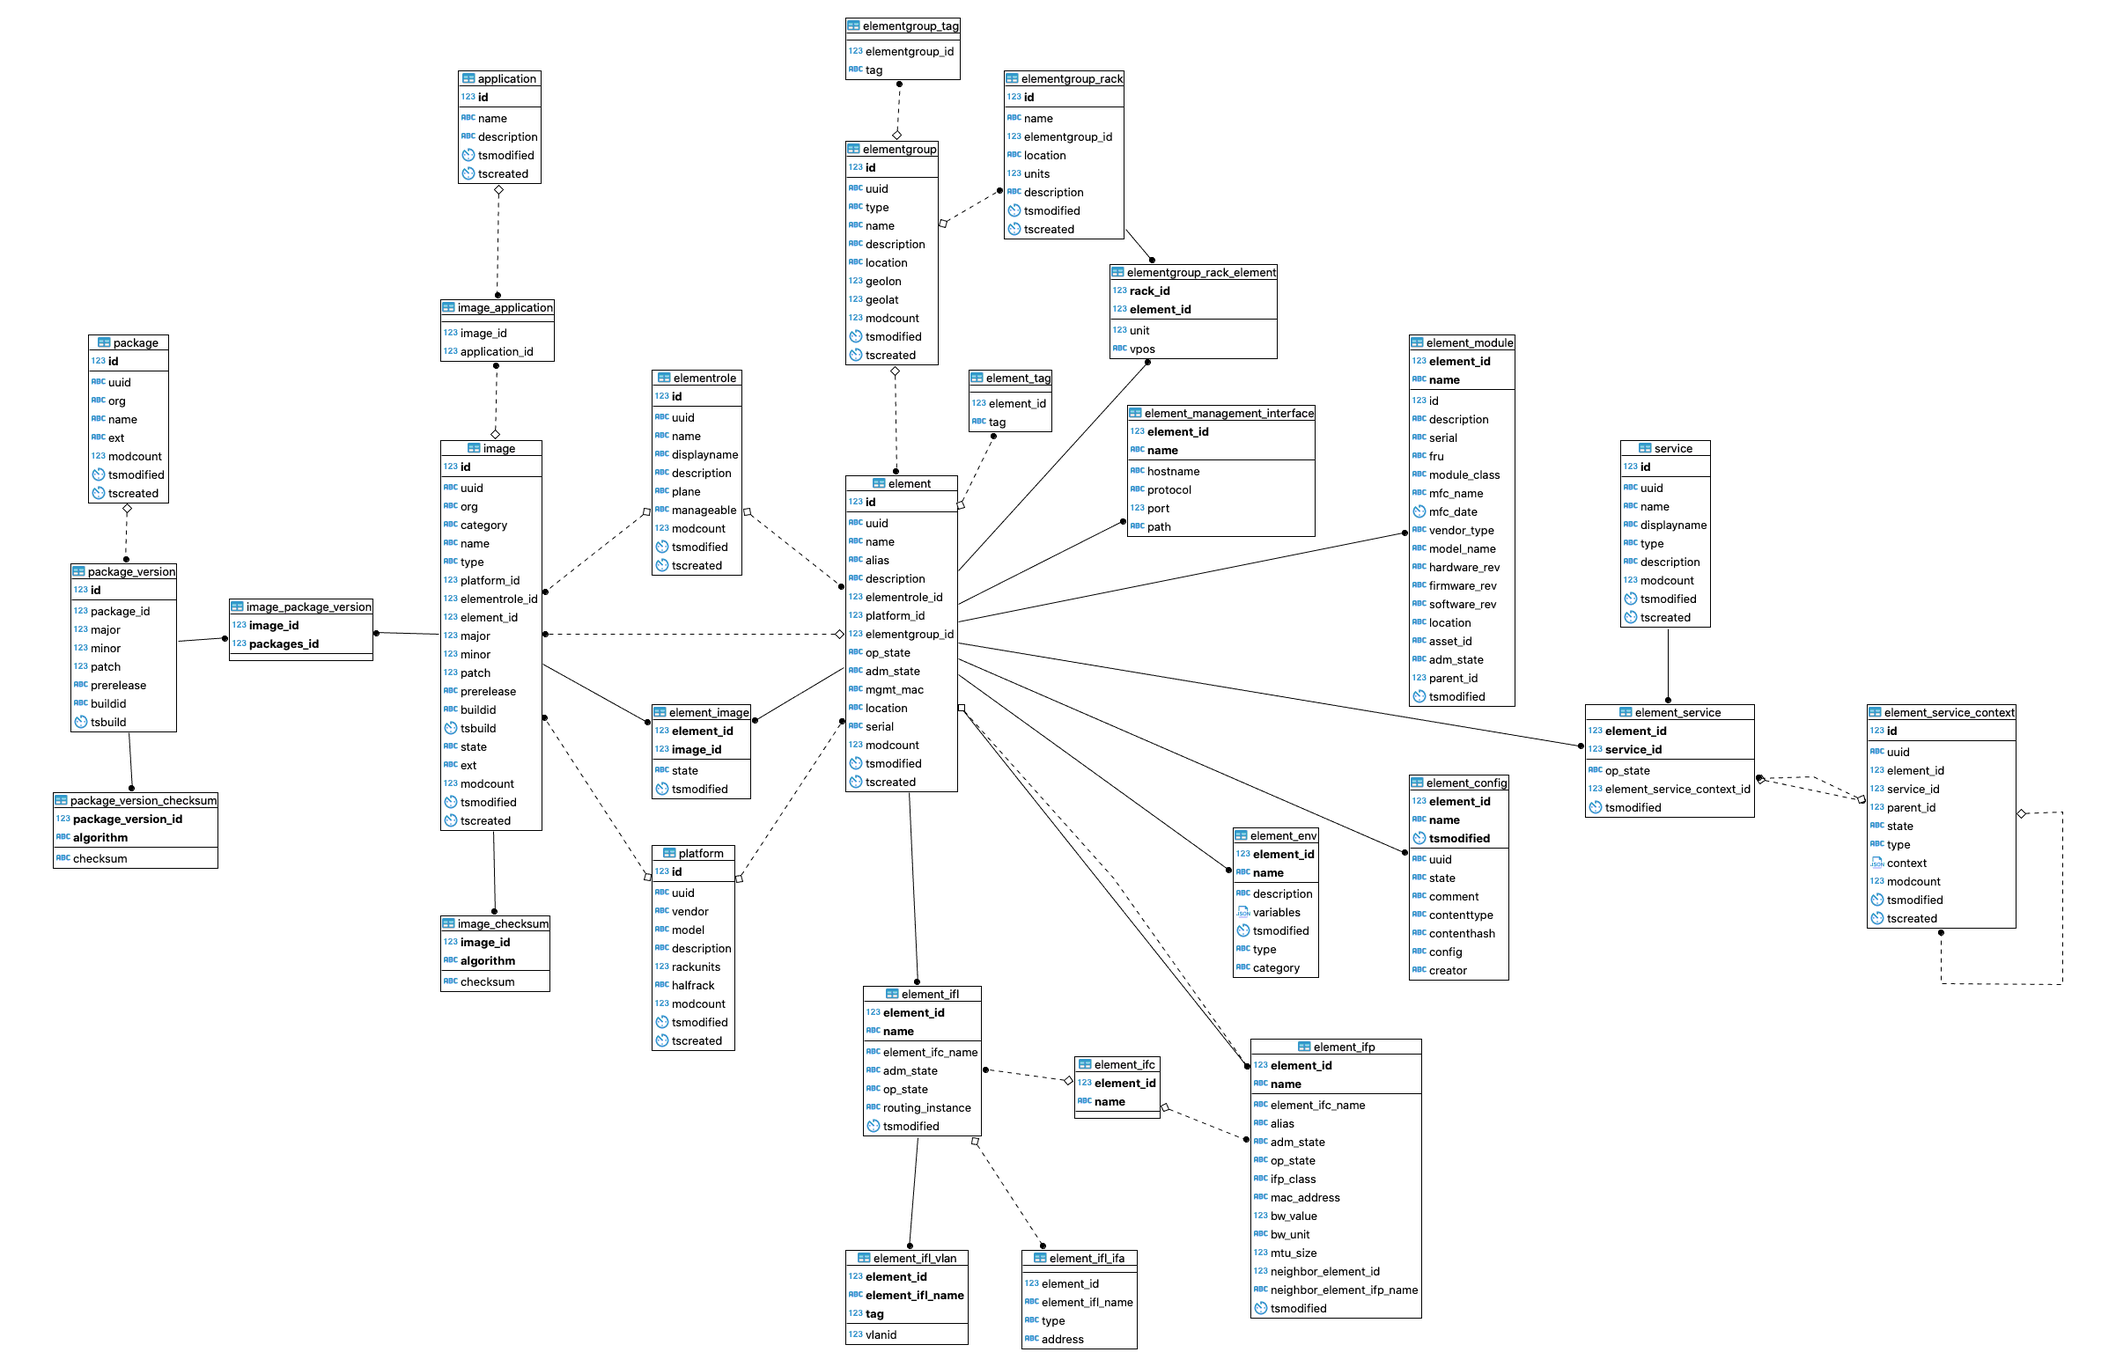
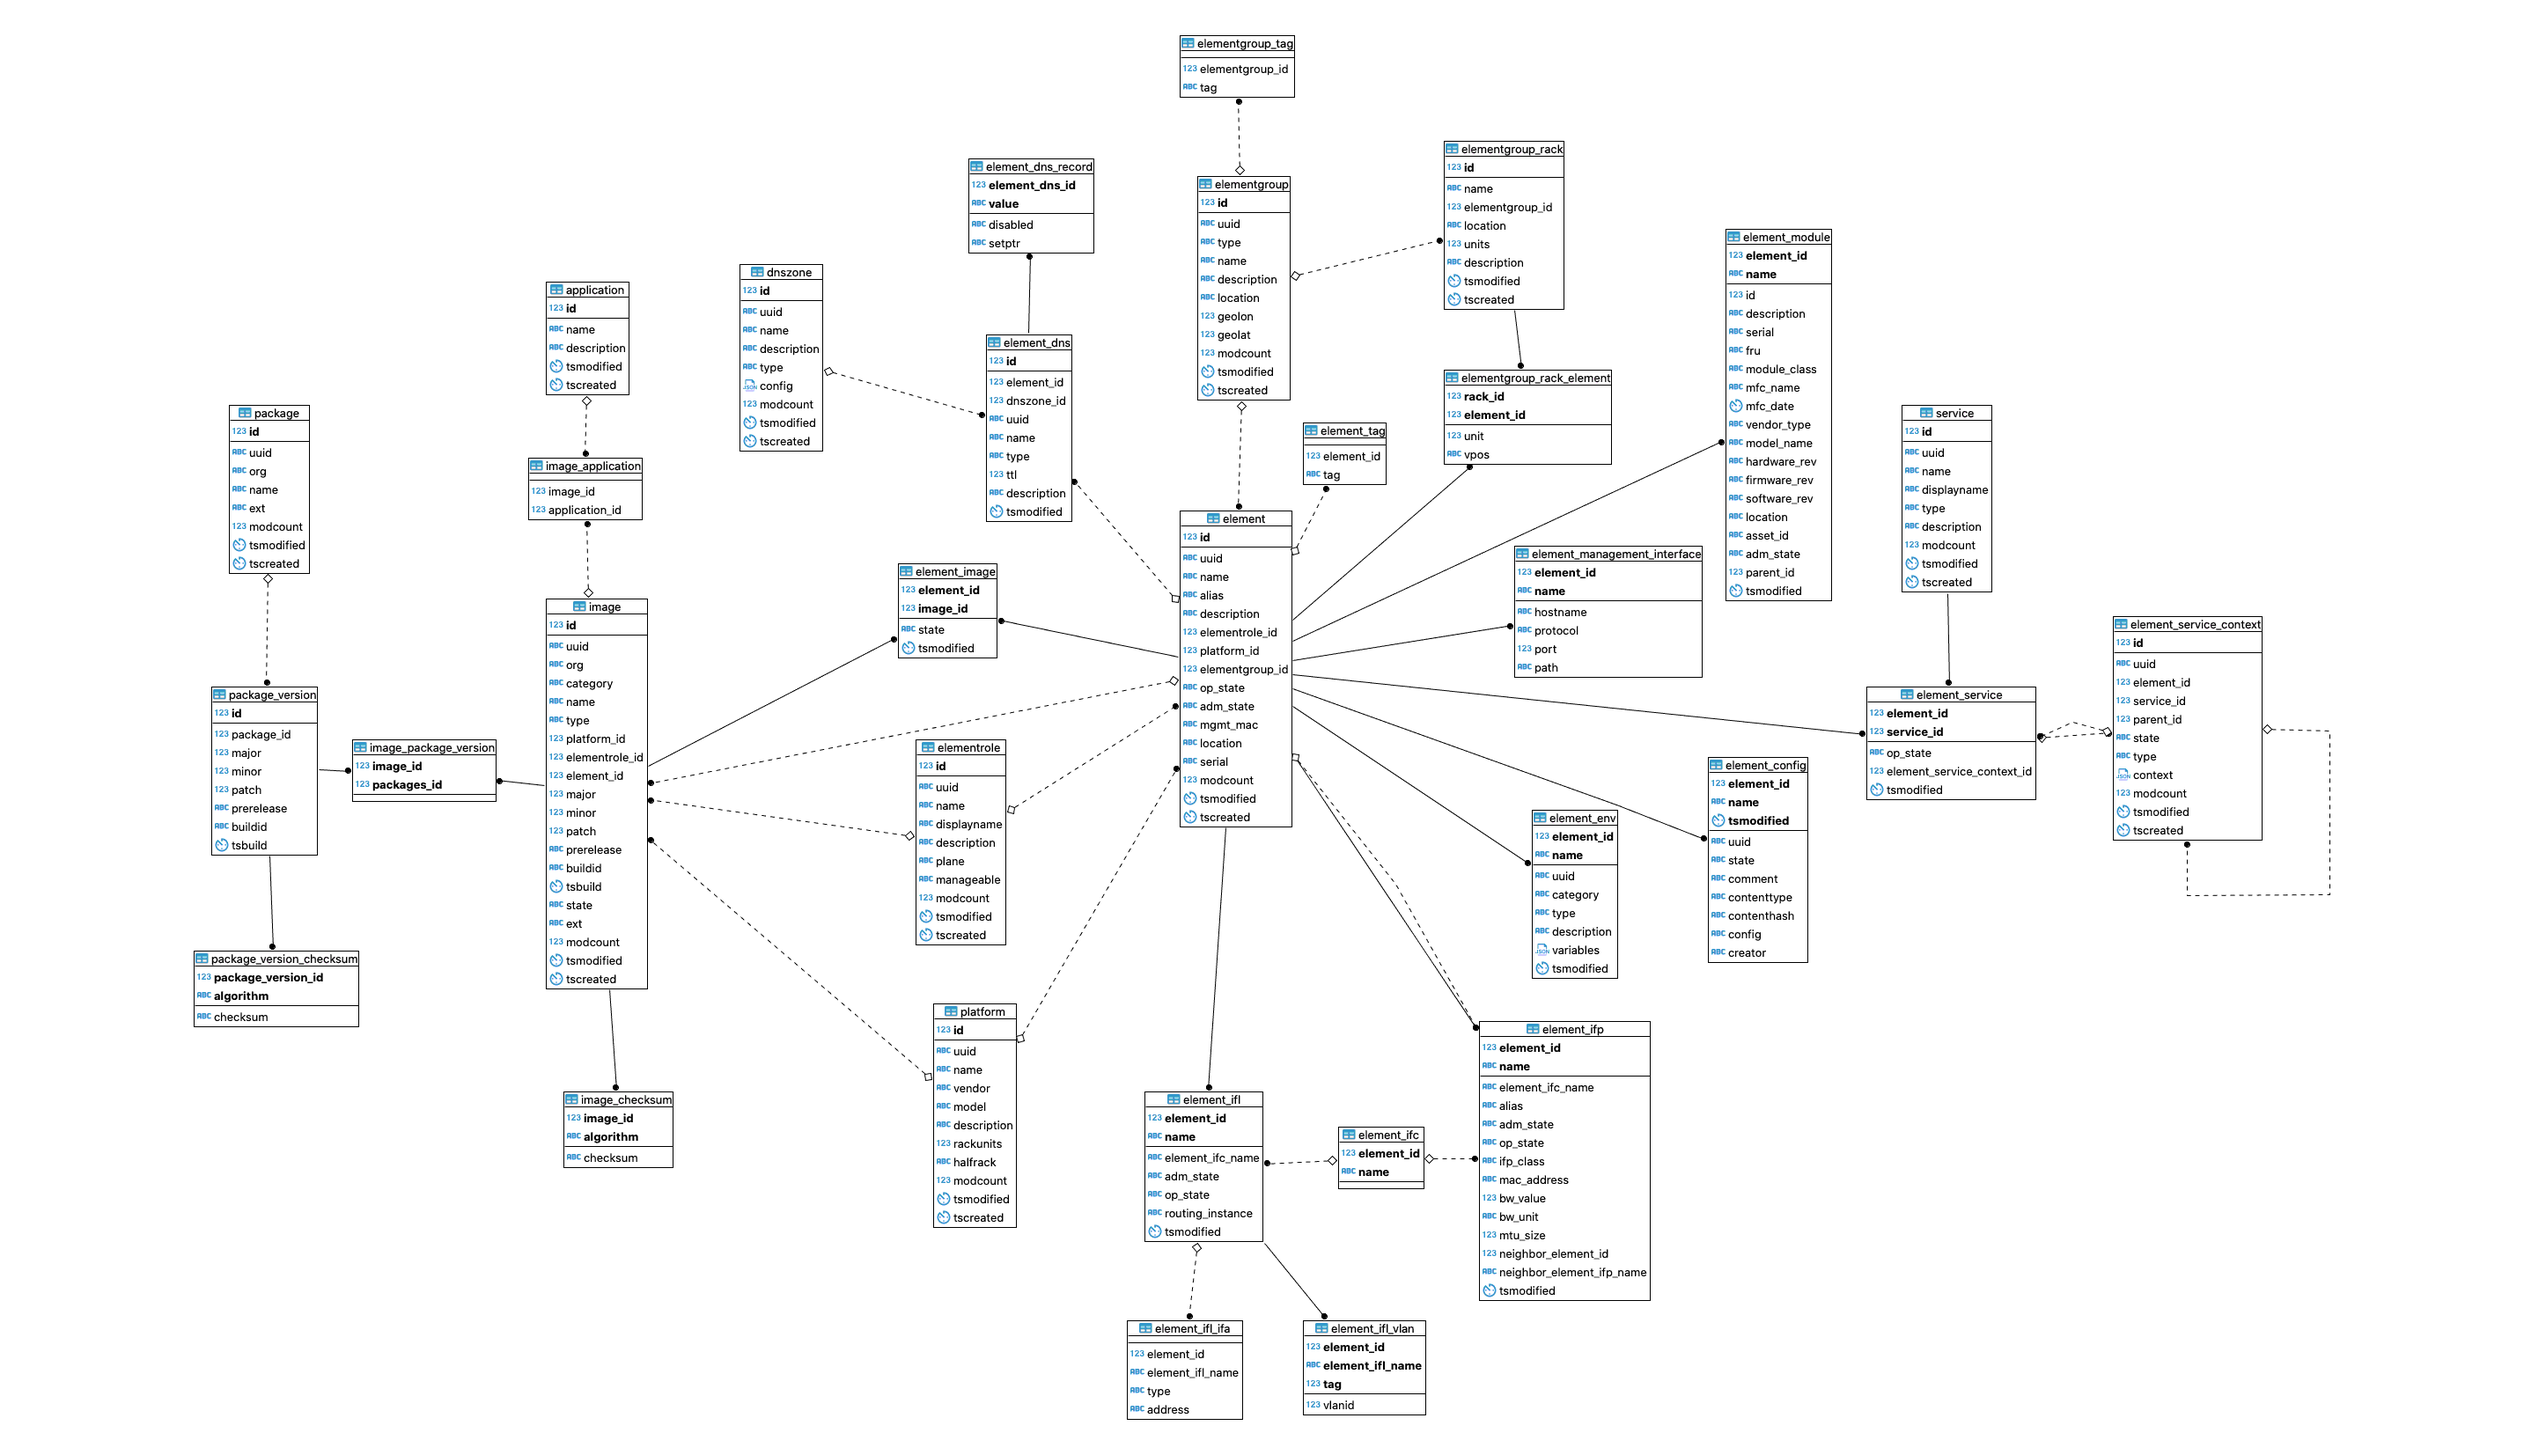
DNS cleanup (#10)
* Added bean validation
* Sorting DNS record lists by name
* DNS tables documented
* Fixed naming convention violations

diff --git a/leitstand-inventory-ui/src/main/resources/META-INF/resources/ui/modules/inventory/dns/controller.js b/leitstand-inventory-ui/src/main/resources/META-INF/resources/ui/modules/inventory/dns/controller.js
@@ -23,6 +23,33 @@ const DNS_TYPES = [{"label":"IPv4 address (A)","value":"A"},
 				   {"label":"IPv6 address (AAAA)","value":"AAAA"},
 				   {"label":"Alias (CNAME)","value":"CNAME"}];
 
+class DnsTypeSelector extends Select {
+	constructor(){
+		super();
+	}
+	
+	options(){
+		return Promise.resolve(DNS_TYPES);
+	}
+}
+customElements.define("dns-types",DnsTypeSelector);
+
+class DnsZoneSelector extends Select {
+	
+	constructor(){
+		super();
+	}
+	
+	options(){
+		const zones = new DnsZones();
+		return zones.load(this.location.params)
+			 		.then(zones => zones.map(zone => ({"label":zone.dns_zone_name,
+				 							   		   "value":zone.dns_zone_id})));
+	}
+	
+	
+}
+customElements.define("dns-zones",DnsZoneSelector);
 
 const zonesController = function(){
 	const zones = new DnsZones();
@@ -34,12 +61,15 @@ const zonesController = function(){
 						   buttons:{
 							   "add-zone":function(){
 								   zones.addZone(this.getViewModel("zone"));
+							   },
+							   "filter":function(){
+								   this.reload({"filter":this.getViewModel("filter")})
 							   }
 						   },
 						   onSuccess:function(){
 							   this.navigate("zones.html");
 						   }
-							});
+						});
 }
 
 const zoneSettingsController = function(){
@@ -74,17 +104,14 @@ const elementDnsRecordSetsController = function(){
 const addElementDnsRecordSetController = function(){
 	const element = new Element({"scope":"dns"});
 	return new Controller({resource:element,
-						   viewModel: async function(element){
-							   element.dns_types = DNS_TYPES;
-							   // Lookup all zones to prepare a select list.
-							   const zones = new DnsZones();
-							   element.zones = await zones.load(this.location.params);
-							   element.zones = element.zones.map(zone => ({"label":zone.dns_zone_name,"value":zone.dns_zone_name}));
-							   return element;
+						   viewModel: function(element){
+							   return {};
 						   },
 						   buttons:{
 							   "save-settings":function(){
 								   const dns = this.getViewModel("dns");
+								   const zoneName = this.input("dns-zones").unwrap().selected.label;
+								   dns.dns_zone_name = zoneName;
 								   dns.dns_records=[
 									   {"dns_value": dns.dns_value,
 									    "disabled":dns.disabled}
@@ -103,11 +130,6 @@ const elementDnsRecordSetController = function(){
 	const element = new Element({"scope":"dns/{{record}}"});
 	return new Controller({resource:element,
 						   viewModel: async function(element){
-							   element.dns_types = DNS_TYPES;
-							   // Lookup all zones to prepare a select list.
-							   const zones = new DnsZones();
-							   element.zones = await zones.load(this.location.params);
-							   element.zones = element.zones.map(zone => ({"label":zone.dns_zone_name,"value":zone.dns_zone_name}));
 							   const record = element.dns_recordset.dns_records[0];
 							   element.dns_recordset.dns_value = record.dns_value;
 							   element.dns_recordset.disabled = record.disabled;
@@ -117,6 +139,8 @@ const elementDnsRecordSetController = function(){
 						   buttons:{
 							   "save-settings":function(){
 								   const dns = this.getViewModel("dns_recordset");
+								   const zoneName = this.input("dns-zones").unwrap().selected.label;
+								   dns.dns_zone_name = zoneName;
 								   dns.dns_records=[
 									   {"dns_value": dns.dns_value,
 									    "disabled":dns.disabled}

diff --git a/leitstand-inventory-ui/src/main/resources/META-INF/resources/ui/modules/inventory/dns/element-dns-record.html b/leitstand-inventory-ui/src/main/resources/META-INF/resources/ui/modules/inventory/dns/element-dns-record.html
@@ -24,18 +24,18 @@
 <ui-form>
 	<ui-group>
 		<ui-label>DNS Record</ui-label>
-		<ui-select name="dns_zone_name" bind="dns_recordset.dns_zone_name" options="zones">
+		<dns-zones name="dns_zone_id" bind="dns_recordset.dns_zone_id">
 			<ui-label>DNS Zone</ui-label>
 			<ui-note>Select DNS zone.</ui-note>
-		</ui-select>
+		</dns-zones>
 		<ui-input name="dns_name" bind="dns_recordset.dns_name">
 			<ui-label>DNS Name</ui-label>
 			<ui-note>Set cannonical DNS name</ui-note>.		
 		</ui-input>
-		<ui-select name="dns_type" bind="dns_recordset.dns_type" options="dns_types">
+		<dns-types name="dns_type" bind="dns_recordset.dns_type">
 			<ui-label>DNS Record Type</ui-label>
 			<ui-note>Select record type</ui-note>.		
-		</ui-select>
+		</dns-types>
 		<ui-input name="dns_value" bind="dns_recordset.dns_value">
 			<ui-label>DNS Value</ui-label>
 			<ui-note>Set the DNS record value</ui-note>.		

diff --git a/leitstand-inventory-ui/src/main/resources/META-INF/resources/ui/modules/inventory/dns/add-element-dns-record.html b/leitstand-inventory-ui/src/main/resources/META-INF/resources/ui/modules/inventory/dns/add-element-dns-record.html
@@ -24,18 +24,18 @@
 <ui-form>
 	<ui-group>
 		<ui-label>DNS Record</ui-label>
-		<ui-select name="dns_zone_name" bind="dns.dns_zone_name" options="zones">
+		<dns-zones name="dns_zone_id" bind="dns.dns_zone_id">
 			<ui-label>DNS Zone</ui-label>
 			<ui-note>Select DNS zone.</ui-note>
-		</ui-select>
+		</dns-zones>
 		<ui-input name="dns_name" bind="dns.dns_name">
 			<ui-label>DNS Name</ui-label>
 			<ui-note>Set cannonical DNS name</ui-note>.		
 		</ui-input>
-		<ui-select name="dns_type" bind="dns.dns_type" options="dns_types">
+		<dns-types name="dns_type" bind="dns.dns_type">
 			<ui-label>DNS Record Type</ui-label>
 			<ui-note>Select record type</ui-note>.		
-		</ui-select>
+		</dns-types>
 		<ui-input name="dns_value" bind="dns.dns_value">
 			<ui-label>DNS Value</ui-label>
 			<ui-note>Set the DNS record value</ui-note>.		

diff --git a/leitstand-inventory-ui/src/main/resources/META-INF/resources/ui/modules/inventory/dns/zone-elements.html b/leitstand-inventory-ui/src/main/resources/META-INF/resources/ui/modules/inventory/dns/zone-elements.html
@@ -34,7 +34,7 @@
 			<th>Set-PTR</th>
 		</thead>
 		<tbody>
-		<!-- {{#dns_record_sets}}  -->
+		<!-- {{#dns_recordsets}}  -->
 		<!-- {{#dns_records}} -->
 		<tr>
 			<td class="text"><a href="element-dns-record.html?group={{group_id}}&element={{element_id}}&record={{dns_recordset_id}}">{{dns_name}}</a></td>
@@ -44,7 +44,7 @@
 			<td>{{dns_setptr}}</td>
 		</tr>
 		<!-- {{/dns_records}} -->
-		<!-- {{/dns_record_sets}} -->
+		<!-- {{/dns_recordsets}} -->
 		</tbody>		
 	</table>
 	</ui-group>

diff --git a/leitstand-inventory-model/src/main/java/io/leitstand/inventory/rs/ElementDnsRecordSetResource.java b/leitstand-inventory-model/src/main/java/io/leitstand/inventory/rs/ElementDnsRecordSetResource.java
@@ -103,7 +103,7 @@ public class ElementDnsRecordSetResource {
 	@Path("/{element:"+UUID_PATTERN+"}/dns/{dns_id:"+UUID_PATTERN+"}")
 	@Scopes({IVT_READ, IVT, IVT_ELEMENT,IVT_ELEMENT_DNS})
 	public ElementDnsRecordSet getElementDnsRecordSet(@Valid @PathParam("element") ElementId elementId,
-															  @Valid @PathParam("dns_id") DnsRecordSetId dnsId) {
+													  @Valid @PathParam("dns_id") DnsRecordSetId dnsId) {
 		ElementDnsRecordSet recordSet = service.getElementDnsRecordSet(dnsId);
 		if(isDifferent(elementId,recordSet.getElementId())) {
 			throw new ConflictException(IVT3003I_ELEMENT_DNS_RECORD_OWNED_BY_OTHER_ELEMENT, 
@@ -118,7 +118,7 @@ public class ElementDnsRecordSetResource {
 	@Path("/{element}/dns/{dns_id:"+UUID_PATTERN+"}")
 	@Scopes({IVT_READ, IVT, IVT_ELEMENT,IVT_ELEMENT_DNS})
 	public ElementDnsRecordSet getElementDnsRecordSet(@Valid @PathParam("element") ElementName elementName,
-															  @Valid @PathParam("dns_id") DnsRecordSetId dnsId) {
+													  @Valid @PathParam("dns_id") DnsRecordSetId dnsId) {
 		ElementDnsRecordSet recordSet = service.getElementDnsRecordSet(dnsId);
 		if(isDifferent(elementName,recordSet.getElementName())) {
 			throw new ConflictException(IVT3003I_ELEMENT_DNS_RECORD_OWNED_BY_OTHER_ELEMENT, 

diff --git a/leitstand-inventory-model/src/main/java/io/leitstand/inventory/model/Element_DnsRecordSet.java b/leitstand-inventory-model/src/main/java/io/leitstand/inventory/model/Element_DnsRecordSet.java
@@ -57,7 +57,7 @@ import io.leitstand.inventory.service.DnsZoneName;
 @NamedQuery(name="Element_DnsRecordSet.removeAll",
 			query="DELETE FROM Element_DnsRecordSet s WHERE s.element=:element")
 @NamedQuery(name="Element_DnsRecordSet.findDnsRecordSets",
-			query="SELECT s FROM Element_DnsRecordSet s WHERE s.element=:element")
+			query="SELECT s FROM Element_DnsRecordSet s WHERE s.element=:element ORDER BY s.type,s.name")
 @NamedQuery(name="Element_DnsRecordSet.findDnsRecordSetByName",
 			query="SELECT s FROM Element_DnsRecordSet s WHERE s.element=:element AND s.name=:name AND s.type=:type")
 @NamedQuery(name="Element_DnsRecordSet.findDnsRecordSetById",
@@ -127,6 +127,7 @@ public class Element_DnsRecordSet {
 	private List<DnsRecord> records;
 	
 	@Convert(converter=DnsNameConverter.class)
+	@Column(unique=true)
 	private DnsName name;
 
 	private String description;
@@ -155,6 +156,7 @@ public class Element_DnsRecordSet {
 		this.element = element;
 		this.uuid = id;
 		this.name = name;
+		this.tsModified = new Date();
 	}
 	
 	@PreUpdate

diff --git a/leitstand-inventory-api/src/main/java/io/leitstand/inventory/service/DnsRecordSet.java b/leitstand-inventory-api/src/main/java/io/leitstand/inventory/service/DnsRecordSet.java
@@ -25,6 +25,8 @@ import java.util.ArrayList;
 import java.util.List;
 
 import javax.json.bind.annotation.JsonbProperty;
+import javax.validation.Valid;
+import javax.validation.constraints.NotNull;
 
 import io.leitstand.commons.model.ValueObject;
 
@@ -113,13 +115,27 @@ public class DnsRecordSet extends ValueObject {
 		}
 	}
 	
+	@NotNull(message="{dns_zone_id.required}")
+	@Valid
 	private DnsZoneId dnsZoneId;
+	@NotNull(message="{dns_zone_name.required}")
+	@Valid
 	private DnsZoneName dnsZoneName;
+	
 	@JsonbProperty("dns_recordset_id")
+	@NotNull(message="{dns_recorset_id.required}")
+	@Valid
 	private DnsRecordSetId dnsRecordSetId = randomDnsRecordSetId();
+
+	@NotNull(message="{dns_type.required}")
+	@Valid
 	private DnsRecordType dnsType;
+	
+	@NotNull(message="{dns_name.required}")
+	@Valid
 	private DnsName dnsName;
 	private int dnsTtl = 3600;
+	@Valid
 	private List<DnsRecord> dnsRecords = emptyList();
 	private String description;
 	

diff --git a/leitstand-inventory-api/src/main/java/io/leitstand/inventory/service/DnsZoneId.java b/leitstand-inventory-api/src/main/java/io/leitstand/inventory/service/DnsZoneId.java
@@ -15,10 +15,15 @@
  */
 package io.leitstand.inventory.service;
 
+import static io.leitstand.commons.model.Patterns.UUID_PATTERN;
+
 import java.util.UUID;
 
 import javax.json.bind.annotation.JsonbTypeAdapter;
+import javax.validation.constraints.NotNull;
+import javax.validation.constraints.Pattern;
 
+import io.leitstand.commons.model.Patterns;
 import io.leitstand.commons.model.Scalar;
 import io.leitstand.inventory.jsonb.DnsZoneIdAdapter;
 
@@ -39,6 +44,8 @@ public class DnsZoneId extends Scalar<String> {
 		return Scalar.fromString(name, DnsZoneId::new);
 	}
 	
+	@NotNull(message="{dns_zone_id.required}")
+	@Pattern(regexp=UUID_PATTERN, message="{dns_zone_id.invalid}")
 	private String value;
 	
 	public DnsZoneId(String name) {

diff --git a/leitstand-inventory-api/src/main/java/io/leitstand/inventory/service/DnsZoneName.java b/leitstand-inventory-api/src/main/java/io/leitstand/inventory/service/DnsZoneName.java
@@ -15,7 +15,11 @@
  */
 package io.leitstand.inventory.service;
 
+import static io.leitstand.commons.model.Patterns.DNS_PATTERN;
+
 import javax.json.bind.annotation.JsonbTypeAdapter;
+import javax.validation.constraints.NotNull;
+import javax.validation.constraints.Pattern;
 
 import io.leitstand.commons.model.Scalar;
 import io.leitstand.inventory.jsonb.DnsZoneNameAdapter;
@@ -33,6 +37,8 @@ public class DnsZoneName extends Scalar<String>{
 		return Scalar.fromString(name, DnsZoneName::new);
 	}
 	
+	@NotNull(message="{dns_zone_name.required}")
+	@Pattern(regexp=DNS_PATTERN, message="{dns_zone_name.invalid}")
 	private String value;
 	
 	public DnsZoneName(String name) {

diff --git a/leitstand-inventory-api/src/main/java/io/leitstand/inventory/service/DnsZoneSettings.java b/leitstand-inventory-api/src/main/java/io/leitstand/inventory/service/DnsZoneSettings.java
@@ -19,6 +19,8 @@ import static io.leitstand.commons.model.BuilderUtil.assertNotInvalidated;
 import static io.leitstand.inventory.service.DnsZoneId.randomDnsZoneId;
 
 import javax.json.JsonObject;
+import javax.validation.Valid;
+import javax.validation.constraints.NotNull;
 
 import io.leitstand.commons.model.ValueObject;
 
@@ -82,8 +84,12 @@ public class DnsZoneSettings extends ValueObject {
 		}
 	}
 	
+	@Valid
+	@NotNull(message="{dns_zone_id.required}")
 	private DnsZoneId dnsZoneId = randomDnsZoneId();
 	
+	@Valid
+	@NotNull(message="{dns_zone_name.required}")
 	private DnsZoneName dnsZoneName;
 	
 	private String dnsZoneConfigType;

diff --git a/leitstand-inventory-api/src/main/java/io/leitstand/inventory/service/DnsRecordType.java b/leitstand-inventory-api/src/main/java/io/leitstand/inventory/service/DnsRecordType.java
@@ -16,6 +16,8 @@
 package io.leitstand.inventory.service;
 
 import javax.json.bind.annotation.JsonbTypeAdapter;
+import javax.validation.constraints.NotNull;
+import javax.validation.constraints.Pattern;
 
 import io.leitstand.commons.model.Scalar;
 import io.leitstand.inventory.jsonb.DnsRecordTypeAdapter;
@@ -33,6 +35,8 @@ public class DnsRecordType extends Scalar<String>{
 		return fromString(type, DnsRecordType::new);
 	}
 	
+	@NotNull(message="{dns_type.required}")
+	@Pattern(regexp="[A-Z0-9]+", message="{dns_type.invalid}")
 	private String value;
 	
 	public DnsRecordType(String type) {

diff --git a/leitstand-inventory-api/src/main/java/io/leitstand/inventory/service/DnsRecordSetId.java b/leitstand-inventory-api/src/main/java/io/leitstand/inventory/service/DnsRecordSetId.java
@@ -20,6 +20,7 @@ import static io.leitstand.commons.model.Patterns.UUID_PATTERN;
 import java.util.UUID;
 
 import javax.json.bind.annotation.JsonbTypeAdapter;
+import javax.validation.constraints.NotNull;
 import javax.validation.constraints.Pattern;
 
 import io.leitstand.commons.model.Scalar;
@@ -42,6 +43,7 @@ public class DnsRecordSetId extends Scalar<String>{
 		return Scalar.fromString(id, DnsRecordSetId::new);
 	}
 	
+	@NotNull(message="{dns_recordset_id.required}")
 	@Pattern(regexp=UUID_PATTERN, message="{dns_recordset_id.invalid}")
 	private String value;
 	
